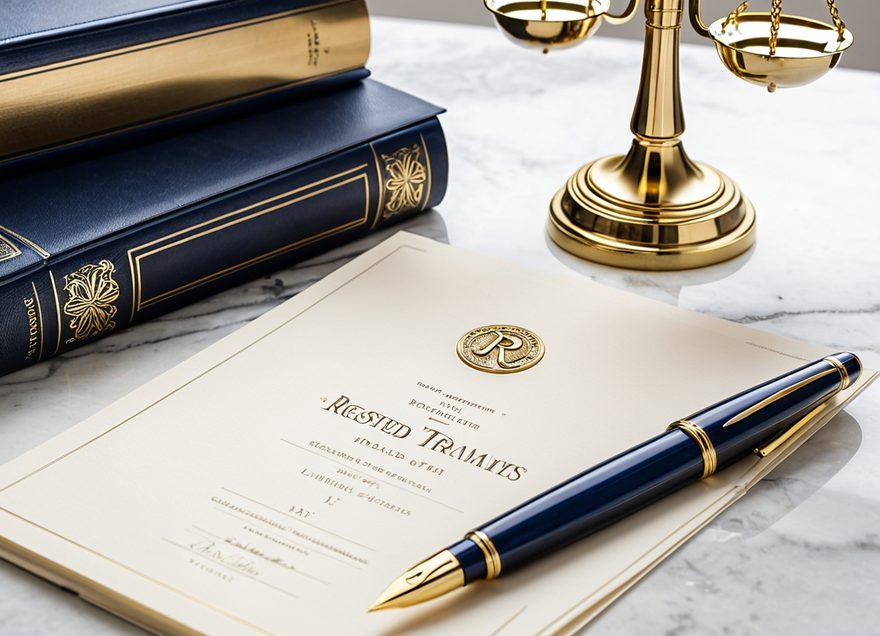
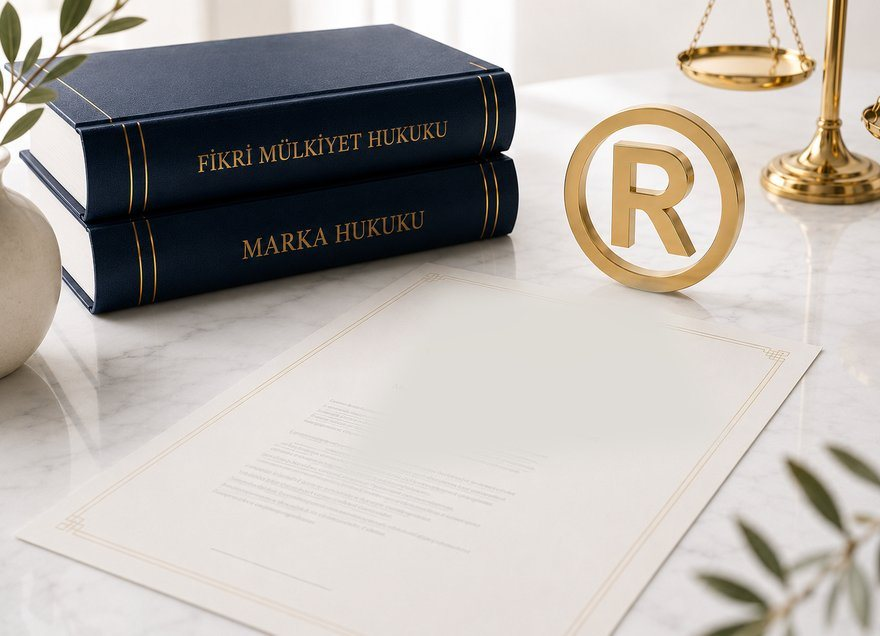
Eylul 2026: 8 ic sayfaya hero fotograflari (Sinem'in yazisiz bannerlari, srcset+preload), 3 alan karti gorseli (aile, yabancilar, fikri-sinai logosuz), makaleler/iletisim metinleri TR+EN, sitemap lastmod
Ayrintilar: DEGISIKLIK-RAPORU-01-EYL-2026.md - Geri donus: GERI-DONUS-PLANI.md

diff --git a/index.html b/index.html
@@ -297,7 +297,7 @@
       <div class="cards-grid">
         <!-- Fikri ve Sınai Haklar — ÖNE ÇIKAN -->
         <article class="card reveal">
-          <div class="card-media"><img src="assets/alanlar/alan-fikri-sinai.jpg" width="880" height="636" loading="lazy" decoding="async" alt="" data-alt-tr="Tescil belgeleri, mühür ve adalet terazisi — fikri ve sınai haklar" data-alt-en="Certificates, seal and scales of justice — intellectual property" /></div>
+          <div class="card-media"><img src="assets/alanlar/alan-fikri-sinai.jpg" width="880" height="636" loading="lazy" decoding="async" alt="" data-alt-tr="Fikri mülkiyet ve marka hukuku kitapları, tescilli marka sembolü ve adalet terazisi — fikri ve sınai haklar" data-alt-en="Intellectual property and trademark law books, registered trademark symbol and scales of justice — intellectual property" /></div>
           <span class="card-badge" data-lang-tr>Öne Çıkan</span><span class="card-badge" data-lang-en>Featured</span>
           <div class="card-icon"><svg viewBox="0 0 24 24" fill="none" stroke="currentColor" stroke-width="1.6"><path d="M12 2l3 6 6 .9-4.5 4.2 1 6-5.5-3-5.5 3 1-6L3 8.9 9 8z" stroke-linejoin="round"/></svg></div>
           <h3 data-lang-tr>Fikri ve Sınai Haklar</h3><h3 data-lang-en>Intellectual Property</h3>
@@ -307,7 +307,7 @@
         </article>
         <!-- Yabancılar — ÖNE ÇIKAN -->
         <article class="card reveal reveal-delay-1">
-          <div class="card-media"><img src="assets/alanlar/alan-yabancilar.jpg" width="880" height="636" loading="lazy" decoding="async" alt="" data-alt-tr="Pasaport ve küre — yabancılar hukuku" data-alt-en="Passport and globe — immigration law" /></div>
+          <div class="card-media"><img src="assets/alanlar/alan-yabancilar.jpg" width="880" height="636" loading="lazy" decoding="async" alt="" data-alt-tr="Türk pasaportu, ikamet izni başvuru formu ve dünya haritası — yabancılar hukuku" data-alt-en="Turkish passport, residence permit application form and world map — immigration law" /></div>
           <span class="card-badge" data-lang-tr>Öne Çıkan</span><span class="card-badge" data-lang-en>Featured</span>
           <div class="card-icon"><svg viewBox="0 0 24 24" fill="none" stroke="currentColor" stroke-width="1.6"><circle cx="12" cy="12" r="9"/><path d="M3 12h18M12 3a14 14 0 010 18M12 3a14 14 0 000 18" stroke-linecap="round" stroke-linejoin="round"/></svg></div>
           <h3 data-lang-tr>Yabancılar Hukuku</h3><h3 data-lang-en>Immigration Law</h3>
@@ -317,7 +317,7 @@
         </article>
         <!-- Aile -->
         <article class="card reveal reveal-delay-2">
-          <div class="card-media"><img src="assets/alanlar/alan-aile.jpg" width="880" height="636" loading="lazy" decoding="async" alt="" data-alt-tr="Aile figürleri ve adalet terazisi — aile hukuku" data-alt-en="Family figurines and scales of justice — family law" /></div>
+          <div class="card-media"><img src="assets/alanlar/alan-aile.jpg" width="880" height="636" loading="lazy" decoding="async" alt="" data-alt-tr="El ele tutuşan aile figürleri ve adalet terazisi — aile hukuku" data-alt-en="Family figures holding hands and scales of justice — family law" /></div>
           <div class="card-icon"><svg viewBox="0 0 24 24" fill="none" stroke="currentColor" stroke-width="1.6"><path d="M12 21s-6-4.5-9-8a4.5 4.5 0 019-1 4.5 4.5 0 019 1c-3 3.5-9 8-9 8z" stroke-linejoin="round"/></svg></div>
           <h3 data-lang-tr>Aile Hukuku</h3><h3 data-lang-en>Family Law</h3>
           <p data-lang-tr>Boşanma, velayet, nafaka ve mal paylaşımı başta olmak üzere aile içi uyuşmazlıklarda hassas ve etkili temsil.</p>

diff --git a/iletisim.html b/iletisim.html
@@ -19,6 +19,7 @@
   <meta name="twitter:image" content="https://nkeremsenturk.github.io/senturk-hukuk/assets/hero-1.jpg" />
   <script>try{var t=localStorage.getItem('ssh-theme')||((window.matchMedia&&matchMedia('(prefers-color-scheme:dark)').matches)?'dark':'light');document.documentElement.setAttribute('data-theme',t);}catch(e){}</script>
   <link rel="stylesheet" href="css/style.css" />
+  <link rel="preload" as="image" href="assets/hero/hero-iletisim-1600.jpg" imagesrcset="assets/hero/hero-iletisim-960.jpg 960w, assets/hero/hero-iletisim-1600.jpg 1600w" imagesizes="100vw" fetchpriority="high" />
   <link rel="icon" href="assets/logo/e5-icon-dark.svg" />
 </head>
 <body>
@@ -56,8 +57,8 @@
     </div>
   </header>
 
-  <section class="page-hero" id="main-content" tabindex="-1">
-    <div class="hero-bg"></div>
+  <section class="page-hero page-hero--photo" id="main-content" tabindex="-1" style="--hero-pos: 50% 50%">
+    <div class="hero-bg"><img class="hero-photo" src="assets/hero/hero-iletisim-1600.jpg" srcset="assets/hero/hero-iletisim-960.jpg 960w, assets/hero/hero-iletisim-1600.jpg 1600w" sizes="100vw" width="1600" height="759" alt="" fetchpriority="high" decoding="async" /></div>
     <div class="container">
       <div class="breadcrumb">
         <a href="index.html"><span data-lang-tr>Ana Sayfa</span><span data-lang-en>Home</span></a>
@@ -67,8 +68,8 @@
       <span class="eyebrow center" style="margin-top:1rem;justify-content:center" data-lang-tr>Bize Ulaşın</span>
       <span class="eyebrow center" style="margin-top:1rem;justify-content:center" data-lang-en>Reach Us</span>
       <h1 data-lang-tr>İletişim</h1><h1 data-lang-en>Contact</h1>
-      <p class="lead" data-lang-tr>Randevu, online danışmanlık veya marka başvurusu için bize ulaşın. Aşağıdaki formu doldurabilir; telefon, WhatsApp ya da e-posta ile de yazabilirsiniz.</p>
-      <p class="lead" data-lang-en>Get in touch for an appointment, online consultation or trademark application. Fill in the form below, or reach us by phone, WhatsApp or email.</p>
+      <p class="lead" data-lang-tr>Randevu talebi, online hukuki danışmanlık veya marka başvurusu süreçleri için bizimle iletişime geçebilirsiniz. Aşağıdaki iletişim formunu doldurabilir; telefon, WhatsApp ve e-posta ile bize ulaşabilirsiniz.</p>
+      <p class="lead" data-lang-en>You can contact us for appointment requests, online legal consultation or trademark application processes. Fill in the contact form below, or reach us by phone, WhatsApp or email.</p>
     </div>
   </section>
 

diff --git a/makaleler.html b/makaleler.html
@@ -19,6 +19,7 @@
   <meta name="twitter:image" content="https://nkeremsenturk.github.io/senturk-hukuk/assets/hero-1.jpg" />
   <script>try{var t=localStorage.getItem('ssh-theme')||((window.matchMedia&&matchMedia('(prefers-color-scheme:dark)').matches)?'dark':'light');document.documentElement.setAttribute('data-theme',t);}catch(e){}</script>
   <link rel="stylesheet" href="css/style.css" />
+  <link rel="preload" as="image" href="assets/hero/hero-makaleler-1600.jpg" imagesrcset="assets/hero/hero-makaleler-960.jpg 960w, assets/hero/hero-makaleler-1600.jpg 1600w" imagesizes="100vw" fetchpriority="high" />
   <link rel="icon" href="assets/logo/e5-icon-dark.svg" />
 </head>
 <body>
@@ -56,8 +57,8 @@
     </div>
   </header>
 
-  <section class="page-hero" id="main-content" tabindex="-1">
-    <div class="hero-bg"></div>
+  <section class="page-hero page-hero--photo" id="main-content" tabindex="-1" style="--hero-pos: 50% 55%">
+    <div class="hero-bg"><img class="hero-photo" src="assets/hero/hero-makaleler-1600.jpg" srcset="assets/hero/hero-makaleler-960.jpg 960w, assets/hero/hero-makaleler-1600.jpg 1600w" sizes="100vw" width="1600" height="686" alt="" fetchpriority="high" decoding="async" /></div>
     <div class="container">
       <div class="breadcrumb">
         <a href="index.html"><span data-lang-tr>Ana Sayfa</span><span data-lang-en>Home</span></a>
@@ -66,9 +67,9 @@
       </div>
       <span class="eyebrow center" style="margin-top:1rem;justify-content:center" data-lang-tr>Bilgi Köşesi</span>
       <span class="eyebrow center" style="margin-top:1rem;justify-content:center" data-lang-en>Insights</span>
-      <h1 data-lang-tr>Makaleler &amp; Bilgilendirme</h1><h1 data-lang-en>Articles &amp; Insights</h1>
-      <p class="lead" data-lang-tr>Marka ve fikri mülkiyet başta olmak üzere hukuki süreçleri daha anlaşılır kılmak için hazırladığımız yazılar.</p>
-      <p class="lead" data-lang-en>Explainer articles — led by trademark and intellectual property — to make legal processes clearer.</p>
+      <h1 data-lang-tr>Makaleler</h1><h1 data-lang-en>Articles</h1>
+      <p class="lead" data-lang-tr>Marka ve fikri mülkiyet başta olmak üzere güncel hukuki gelişmeler, uygulamaya yönelik değerlendirmeler ve bilgilendirici içerikleri sizlerle paylaşıyoruz.</p>
+      <p class="lead" data-lang-en>Led by trademark and intellectual property law, we share current legal developments, practice-oriented assessments and informative content.</p>
     </div>
   </section>
 

diff --git a/css/style.css b/css/style.css
@@ -1003,6 +1003,34 @@ p:last-child { margin-bottom: 0; }
 .page-hero .eyebrow::before, .page-hero .eyebrow.center::after { background: var(--accent-300); }
 .page-hero .lead { color: rgba(255,255,255,0.8); max-width: 680px; margin: 1.2rem auto 0; }
 
+/* ---------- 16b. Fotoğraflı sayfa başlığı (Eylül 2026 — Sinem'in banner görselleri) ----------
+   Yapı: .page-hero.page-hero--photo > .hero-bg > img.hero-photo
+   Görsel arka planda (object-fit: cover), üstüne lacivert gradyan overlay (::after) biner;
+   başlık/açıklama HTML metni olarak kalır (iki dil, SEO, erişilebilirlik). Sayfa bazında
+   kadraj: style="--hero-pos: 50% 40%". Overlay yoğunluğu Sinem'in "%75-80 lacivert" isteğinin
+   CSS karşılığıdır; görseller zaten lacivert tonlu geldiği için toplam etki o seviyeye çıkar. */
+.page-hero--photo .hero-bg { background: var(--navy-900); }
+.page-hero--photo .hero-photo {
+  position: absolute; inset: 0; width: 100%; height: 100%;
+  object-fit: cover; object-position: var(--hero-pos, 50% 50%);
+  display: block;
+  animation: heroPhotoIn 1.4s var(--ease-soft) both;
+}
+.page-hero--photo .hero-bg::after {
+  background:
+    radial-gradient(ellipse 58% 68% at 50% 56%, rgba(8,20,38,0.34), transparent 100%),
+    linear-gradient(180deg, rgba(8,20,38,0.70) 0%, rgba(11,31,58,0.52) 42%, rgba(11,31,58,0.56) 72%, rgba(8,20,38,0.78) 100%);
+  opacity: 1;
+}
+@keyframes heroPhotoIn {
+  from { opacity: 0; transform: scale(1.04); }
+  to   { opacity: 1; transform: none; }
+}
+@media (prefers-reduced-motion: reduce) {
+  .page-hero--photo .hero-photo { animation: none; }
+}
+
+
 /* ---------- 17. Profil (Hakkında) ---------- */
 .profile-grid { display: grid; grid-template-columns: 0.85fr 1.15fr; gap: clamp(2rem, 6vw, 5rem); align-items: start; }
 .credential-list { display: grid; gap: 1rem; margin-top: 1.5rem; }

diff --git a/marka-tescili.html b/marka-tescili.html
@@ -20,6 +20,7 @@
   <meta name="keywords" content="marka tescili, marka tescili nasıl yapılır, marka vekili, tasarım tescili, coğrafi işaret tescili, İstanbul marka tescili, Balıkesir marka tescili, uluslararası marka başvurusu" />
   <script>try{var t=localStorage.getItem('ssh-theme')||((window.matchMedia&&matchMedia('(prefers-color-scheme:dark)').matches)?'dark':'light');document.documentElement.setAttribute('data-theme',t);}catch(e){}</script>
   <link rel="stylesheet" href="css/style.css" />
+  <link rel="preload" as="image" href="assets/hero/hero-marka-tescili-1600.jpg" imagesrcset="assets/hero/hero-marka-tescili-960.jpg 960w, assets/hero/hero-marka-tescili-1600.jpg 1600w" imagesizes="100vw" fetchpriority="high" />
   <link rel="icon" href="assets/logo/e5-icon-dark.svg" />
 </head>
 <body>
@@ -57,8 +58,8 @@
     </div>
   </header>
 
-  <section class="page-hero" id="main-content" tabindex="-1">
-    <div class="hero-bg"></div>
+  <section class="page-hero page-hero--photo" id="main-content" tabindex="-1" style="--hero-pos: 50% 50%">
+    <div class="hero-bg"><img class="hero-photo" src="assets/hero/hero-marka-tescili-1600.jpg" srcset="assets/hero/hero-marka-tescili-960.jpg 960w, assets/hero/hero-marka-tescili-1600.jpg 1600w" sizes="100vw" width="1600" height="900" alt="" fetchpriority="high" decoding="async" /></div>
     <div class="container">
       <div class="breadcrumb">
         <a href="index.html"><span data-lang-tr>Ana Sayfa</span><span data-lang-en>Home</span></a>

diff --git a/calisma-alanlari.html b/calisma-alanlari.html
@@ -19,6 +19,7 @@
   <meta name="twitter:image" content="https://nkeremsenturk.github.io/senturk-hukuk/assets/hero-1.jpg" />
   <script>try{var t=localStorage.getItem('ssh-theme')||((window.matchMedia&&matchMedia('(prefers-color-scheme:dark)').matches)?'dark':'light');document.documentElement.setAttribute('data-theme',t);}catch(e){}</script>
   <link rel="stylesheet" href="css/style.css" />
+  <link rel="preload" as="image" href="assets/hero/hero-calisma-alanlari-1600.jpg" imagesrcset="assets/hero/hero-calisma-alanlari-960.jpg 960w, assets/hero/hero-calisma-alanlari-1600.jpg 1600w" imagesizes="100vw" fetchpriority="high" />
   <link rel="icon" href="assets/logo/e5-icon-dark.svg" />
 </head>
 <body>
@@ -56,8 +57,8 @@
     </div>
   </header>
 
-  <section class="page-hero" id="main-content" tabindex="-1">
-    <div class="hero-bg"></div>
+  <section class="page-hero page-hero--photo" id="main-content" tabindex="-1" style="--hero-pos: 50% 62%">
+    <div class="hero-bg"><img class="hero-photo" src="assets/hero/hero-calisma-alanlari-1600.jpg" srcset="assets/hero/hero-calisma-alanlari-960.jpg 960w, assets/hero/hero-calisma-alanlari-1600.jpg 1600w" sizes="100vw" width="1600" height="900" alt="" fetchpriority="high" decoding="async" /></div>
     <div class="container">
       <div class="breadcrumb">
         <a href="index.html"><span data-lang-tr>Ana Sayfa</span><span data-lang-en>Home</span></a>

diff --git a/hakkinda.html b/hakkinda.html
@@ -19,6 +19,7 @@
   <meta name="twitter:image" content="https://nkeremsenturk.github.io/senturk-hukuk/assets/hero-1.jpg" />
   <script>try{var t=localStorage.getItem('ssh-theme')||((window.matchMedia&&matchMedia('(prefers-color-scheme:dark)').matches)?'dark':'light');document.documentElement.setAttribute('data-theme',t);}catch(e){}</script>
   <link rel="stylesheet" href="css/style.css" />
+  <link rel="preload" as="image" href="assets/hero/hero-hakkimizda-1600.jpg" imagesrcset="assets/hero/hero-hakkimizda-960.jpg 960w, assets/hero/hero-hakkimizda-1600.jpg 1600w" imagesizes="100vw" fetchpriority="high" />
   <link rel="icon" href="assets/logo/e5-icon-dark.svg" />
 </head>
 <body>
@@ -57,8 +58,8 @@
   </header>
 
   <!-- PAGE HERO -->
-  <section class="page-hero" id="main-content" tabindex="-1">
-    <div class="hero-bg"></div>
+  <section class="page-hero page-hero--photo" id="main-content" tabindex="-1" style="--hero-pos: 64% 42%">
+    <div class="hero-bg"><img class="hero-photo" src="assets/hero/hero-hakkimizda-1600.jpg" srcset="assets/hero/hero-hakkimizda-960.jpg 960w, assets/hero/hero-hakkimizda-1600.jpg 1600w" sizes="100vw" width="1600" height="900" alt="" fetchpriority="high" decoding="async" /></div>
     <div class="container">
       <div class="breadcrumb">
         <a href="index.html"><span data-lang-tr>Ana Sayfa</span><span data-lang-en>Home</span></a>

diff --git a/makale-cografi-isaret-ve-tasarim-tescili.html b/makale-cografi-isaret-ve-tasarim-tescili.html
@@ -32,6 +32,7 @@
   </script>
   <script>try{var t=localStorage.getItem('ssh-theme')||((window.matchMedia&&matchMedia('(prefers-color-scheme:dark)').matches)?'dark':'light');document.documentElement.setAttribute('data-theme',t);}catch(e){}</script>
   <link rel="stylesheet" href="css/style.css" />
+  <link rel="preload" as="image" href="assets/hero/hero-makaleler-1600.jpg" imagesrcset="assets/hero/hero-makaleler-960.jpg 960w, assets/hero/hero-makaleler-1600.jpg 1600w" imagesizes="100vw" fetchpriority="high" />
   <link rel="icon" href="assets/logo/e5-icon-dark.svg" />
 </head>
 <body>
@@ -69,8 +70,8 @@
     </div>
   </header>
 
-  <section class="page-hero" id="main-content" tabindex="-1">
-    <div class="hero-bg"></div>
+  <section class="page-hero page-hero--photo" id="main-content" tabindex="-1" style="--hero-pos: 50% 55%">
+    <div class="hero-bg"><img class="hero-photo" src="assets/hero/hero-makaleler-1600.jpg" srcset="assets/hero/hero-makaleler-960.jpg 960w, assets/hero/hero-makaleler-1600.jpg 1600w" sizes="100vw" width="1600" height="686" alt="" fetchpriority="high" decoding="async" /></div>
     <div class="container">
       <div class="breadcrumb">
         <a href="index.html"><span data-lang-tr>Ana Sayfa</span><span data-lang-en>Home</span></a>

diff --git a/makale-marka-tescili-neden-onemlidir.html b/makale-marka-tescili-neden-onemlidir.html
@@ -32,6 +32,7 @@
   </script>
   <script>try{var t=localStorage.getItem('ssh-theme')||((window.matchMedia&&matchMedia('(prefers-color-scheme:dark)').matches)?'dark':'light');document.documentElement.setAttribute('data-theme',t);}catch(e){}</script>
   <link rel="stylesheet" href="css/style.css" />
+  <link rel="preload" as="image" href="assets/hero/hero-makaleler-1600.jpg" imagesrcset="assets/hero/hero-makaleler-960.jpg 960w, assets/hero/hero-makaleler-1600.jpg 1600w" imagesizes="100vw" fetchpriority="high" />
   <link rel="icon" href="assets/logo/e5-icon-dark.svg" />
 </head>
 <body>
@@ -69,8 +70,8 @@
     </div>
   </header>
 
-  <section class="page-hero" id="main-content" tabindex="-1">
-    <div class="hero-bg"></div>
+  <section class="page-hero page-hero--photo" id="main-content" tabindex="-1" style="--hero-pos: 50% 55%">
+    <div class="hero-bg"><img class="hero-photo" src="assets/hero/hero-makaleler-1600.jpg" srcset="assets/hero/hero-makaleler-960.jpg 960w, assets/hero/hero-makaleler-1600.jpg 1600w" sizes="100vw" width="1600" height="686" alt="" fetchpriority="high" decoding="async" /></div>
     <div class="container">
       <div class="breadcrumb">
         <a href="index.html"><span data-lang-tr>Ana Sayfa</span><span data-lang-en>Home</span></a>

diff --git a/makale-neden-marka-vekili-ile-calismalisiniz.html b/makale-neden-marka-vekili-ile-calismalisiniz.html
@@ -32,6 +32,7 @@
   </script>
   <script>try{var t=localStorage.getItem('ssh-theme')||((window.matchMedia&&matchMedia('(prefers-color-scheme:dark)').matches)?'dark':'light');document.documentElement.setAttribute('data-theme',t);}catch(e){}</script>
   <link rel="stylesheet" href="css/style.css" />
+  <link rel="preload" as="image" href="assets/hero/hero-makaleler-1600.jpg" imagesrcset="assets/hero/hero-makaleler-960.jpg 960w, assets/hero/hero-makaleler-1600.jpg 1600w" imagesizes="100vw" fetchpriority="high" />
   <link rel="icon" href="assets/logo/e5-icon-dark.svg" />
 </head>
 <body>
@@ -69,8 +70,8 @@
     </div>
   </header>
 
-  <section class="page-hero" id="main-content" tabindex="-1">
-    <div class="hero-bg"></div>
+  <section class="page-hero page-hero--photo" id="main-content" tabindex="-1" style="--hero-pos: 50% 55%">
+    <div class="hero-bg"><img class="hero-photo" src="assets/hero/hero-makaleler-1600.jpg" srcset="assets/hero/hero-makaleler-960.jpg 960w, assets/hero/hero-makaleler-1600.jpg 1600w" sizes="100vw" width="1600" height="686" alt="" fetchpriority="high" decoding="async" /></div>
     <div class="container">
       <div class="breadcrumb">
         <a href="index.html"><span data-lang-tr>Ana Sayfa</span><span data-lang-en>Home</span></a>

diff --git a/CLAUDE.md b/CLAUDE.md
@@ -24,7 +24,7 @@ iş, ceza, gayrimenkul, icra-iflas ve sözleşmeler hukuku alanlarında da hizme
 
 ```
 .
-├── index.html              # Ana sayfa (4 slaytlı hero slider, intro+Sinem imzası, hizmetler, marka şeridi, neden biz, makale önizleme, alıntı, inline iletişim formu) — istatistik YOK
+├── index.html              # Ana sayfa (4 slaytlı hero slider, intro+Sinem imzası, görselli 6 alan kartı, marka şeridi, neden biz, makale önizleme, alıntı, inline iletişim formu) — istatistik YOK
 ├── hakkinda.html           # Hakkında (Sinem profili, eğitim, değerler, kurucu ortaklar/ekip)
 ├── calisma-alanlari.html   # Çalışma alanları (8 alan akordeon + marka tescili vurgusu)
 ├── marka-tescili.html      # Marka/tasarım/coğrafi işaret: aşamalar, alt hizmetler, bilgi notları, başvuru formu
@@ -38,10 +38,13 @@ iş, ceza, gayrimenkul, icra-iflas ve sözleşmeler hukuku alanlarında da hizme
 │   └── style.css           # TÜM stiller + tasarım sistemi (tek dosya)
 ├── js/
 │   └── main.js             # TÜM etkileşimler (menü, dil, animasyon, form)
-├── assets/                 # Görseller buraya (portre, büro foto, logo)
+├── assets/                 # Görseller: team/ (portreler), alanlar/ (6 alan kartı JPG), about/ (slider), logo/, fonts/ + vCard & QR
+├── gorsel-uretim/          # AI görsel üretim scriptleri (.bat + py) — .gitignore'da, repoya GİRMEZ
 ├── .github/workflows/
 │   └── pages.yml           # GitHub Pages otomatik yayın
 ├── README.md               # GitHub vitrini + kurulum
+├── BAKIM_RAPORU.md         # 26 Haz 2026 çoklu-ajan bakım turu raporu (arşiv)
+├── SINEM-NOTLAR-ANALIZ-11-TEM-2026.md  # Sinem'in değişiklik dokümanının analizi (uygulandı, arşiv)
 └── CLAUDE.md               # (bu dosya)
 ```
 
@@ -341,7 +344,6 @@ Sinem'den gelen kararlar ve hatırlatmalar; her maddenin durumu işaretli.
 - Çalışma alanları listesinin gözden geçirilmesi (ekleme olacak mı?)
 
 **Kerem'den beklenenler (WhatsApp hatırlatma botu BU listeyi de okur — temiz tut!):**
-- Alan görselleri değişikliğini commit'leyip terminalden push etmek (yayına almak)
 - Web3Forms anahtarını alıp iletişim formuna bağlamak (mesajlar e-postaya düşecek)
 - Cloudflare Analytics kurulumu (gizli ziyaretçi sayacı)
 - KVKK Word dosyasını Sinem'e iletmek
@@ -385,7 +387,8 @@ Sinem'den gelen kararlar ve hatırlatmalar; her maddenin durumu işaretli.
     Telif hakları ve eser sahibinin korunması. (Not: bunlar Temmuz'da kaldırılan 3 örnek kartın
     konuları — geldiklerinde mevcut `makale-*.html` şablonuyla eklenir, kartlar geri gelir.)
 12. ✅ **Hukuk alanlarına görseller TAMAM (13 Tem 2026):** 6 görsel üretildi (A1111,
-    `gorsel-uretim/` scriptleri; yabancilar+gayrimenkul 2. turda düzeltilen prompt'larla).
+    `gorsel-uretim/` scriptleri; yabancilar+gayrimenkul 2. turda, ceza+is-sosyal 3. turda
+    konuya özel yenilendi: tokmak+flu mahkeme kürsüsü, lacivert baret — Kerem talebi).
     Optimize JPG'ler repoda: `assets/alanlar/alan-<slug>.jpg` (880x636, 58-84KB; ham PNG'ler
     .gitignore'da). **index.html 6 alan kartına `.card-media` ile entegre edildi**; CSS'te
     `.card-media` stilleri (hover zoom, `prefers-reduced-motion` saygısı, koyu temada
@@ -395,3 +398,22 @@ Sinem'den gelen kararlar ve hatırlatmalar; her maddenin durumu işaretli.
     kabul edildi; rahatsız ederse tek başına yeniden üretilebilir.
 13. ✅ **11 Tem 2026 sohbet kararları:** "Hakkımızda" nav 10 sayfada güncellendi; "sicilli" →
     "sicile kayıtlı" (index hero-trust, marka-tescili meta+gövde, hakkinda bio) her yerde düzeltildi.
+
+## 13. Eylül 2026 — Sinem'in banner/görsel/metin istekleri (UYGULANDI, yayın onayı bekliyor)
+
+Kaynak: `Sinem İstekler/` (e-posta ekleri; zip'ler + `_acilan/` + `_secenekler/` gitignore'da).
+Rapor: `DEGISIKLIK-RAPORU-01-EYL-2026.md` · Geri dönüş: `GERI-DONUS-PLANI.md` · Öncesi kopya: `_yedek/2026-09-01-oncesi/`.
+
+**Fotoğraflı sayfa başlığı sistemi (`.page-hero--photo`, CSS Bölüm 16b):**
+- Yapı: `<section class="page-hero page-hero--photo" style="--hero-pos: X% Y%">` → `<div class="hero-bg"><img class="hero-photo" src=".../hero-<ad>-1600.jpg" srcset="...-960.jpg 960w, ...-1600.jpg 1600w" sizes="100vw" width height alt="" fetchpriority="high" decoding="async"></div>`; `<head>`'de `<link rel="preload" as="image" imagesrcset imagesizes>`.
+- Görseller `assets/hero/hero-{hakkimizda,calisma-alanlari,marka-tescili,makaleler,iletisim}-{1600,960}.jpg` (Sinem'in YAZISIZ banner'larından, 60-140 KB). 8 sayfada kullanılıyor: 5 ana iç sayfa + 3 `makale-*.html` (Makaleler görseli). `kvkk.html` bilinçli olarak düz gradyan.
+- Metin HTML'de kalır (iki dil/SEO/erişilebilirlik); overlay `::after` lacivert gradyan. **YAZILI banner sürümleri asla kullanılmaz** (çevrilemez, h1 kaybolur, "vekilli.iiğiyle" render hatası, altın+serif palet sapması).
+- Yeni sayfaya fotoğraf eklemek = yukarıdaki 3 satır; kaldırmak = sınıfı ve img/preload satırlarını silmek.
+
+**Alan kartları (`assets/alanlar/`):** aile, yabancilar, fikri-sinai görselleri yenilendi (880×636, parlaklık/kontrast ton düzeltmeli). **KURAL: sitede kullanılan hiçbir görselde kurum/marka logosu, resmî belge görüntüsü veya belge numarası bulunmaz** — yapay üretim görsellerde bu tür öğeler çıkarılır (fikri-sinai görselinde uygulandı). Gerekçe ve kullanılmayan sürümler repo dışındaki iç raporda. Alt metinler (`data-alt-tr/en`) yenilendi.
+
+**Metin:** `makaleler.html` h1 "Makaleler"/"Articles" + yeni lead (TR Sinem'in, EN bizim); `iletisim.html` yeni lead (TR Sinem'in, EN bizim). Sinem'in onayı bekleniyor (`SINEM-SORULAR-01-EYL-2026.md`, 8 madde).
+
+**Yapılmayanlar (bilinçli):** İletişim'e "Bizimle İletişime Geçin" ara satırı; ana sayfa makaleler bölüm başlığı; akordeona görsel; KVKK'ya fotoğraf. Gerekçeler raporda.
+
+**Yayın akışı:** Kerem `git-etiketle-ve-commit.cmd` ile `v1.0-eylul-oncesi` etiketi + tek commit + isteğe bağlı push. Geri alma: `git revert HEAD`.

diff --git a/README.md b/README.md
@@ -5,17 +5,18 @@ Av. & Marka Vekili Sinem Şentürk ve kurucu ortağı Av. Yasin Emre Özbaş iç
 Saf HTML + CSS + JavaScript ile geliştirilmiştir — çerçeve yok, derleme yok,
 GitHub Pages'te ücretsiz yayınlanır. Fikri ve sınai haklar / marka tescili öne çıkar.
 
-> İçerik Sinem'in bilgi formuyla dolduruldu. Logo, portre ve sosyal medya bağlantıları
-> geldiğinde işlenecektir. Ayrıntılar için **[CLAUDE.md](CLAUDE.md)** dosyasına bakın.
+> İçerik Sinem'in bilgi formu ve değişiklik notlarıyla dolduruldu; logo, portreler ve
+> alan görselleri işlendi. Bekleyenler (sosyal medya, domain, kurumsal e-posta vb.) için
+> **[CLAUDE.md](CLAUDE.md)** dosyasına bakın.
 
 ---
 
 ## Özellikler
 
-- **7 sayfa:** Ana Sayfa · Hakkında · Çalışma Alanları · Marka Tescili · Makaleler · İletişim · KVKK
-- **İki dil:** Tek tıkla TR/EN geçişi (tercih hatırlanır)
-- **Modern & sade tasarım:** Lacivert + beyaz paleti, çelik mavisi vurgu, sans-serif tipografi
-- **Dinamik:** Saf-CSS scroll animasyonları, akordeon, yapışkan menü, WhatsApp butonu, mobil uyumlu
+- **10 sayfa:** Ana Sayfa · Hakkımızda · Çalışma Alanları · Marka Tescili · Makaleler (+3 makale sayfası) · İletişim · KVKK
+- **İki dil:** Tek tıkla TR/EN geçişi (tercih hatırlanır) · **Karanlık mod** (tercih hatırlanır)
+- **Modern & sade tasarım:** Lacivert + beyaz paleti, çelik mavisi vurgu, sans-serif tipografi, self-host fontlar
+- **Dinamik:** Saf-CSS scroll animasyonları, akordeon, yapışkan menü, WhatsApp butonu, çalışan iletişim formları (KVKK onaylı), vCard+QR, mobil uyumlu
 - **8 çalışma alanı + marka tescili:** Fikri/sınai haklar, yabancılar, aile, iş, ceza, gayrimenkul,
   icra-iflas, sözleşmeler; ayrı marka/tasarım/coğrafi işaret tescili sayfası ve başvuru formu
 - **SEO dostu:** İstanbul/Balıkesir vurgusu, LegalService JSON-LD, erişilebilir işaretleme
@@ -87,10 +88,10 @@ Detaylı kurallar ve "yapılacaklar" listesi: **[CLAUDE.md](CLAUDE.md)**
 
 ```
 index.html · hakkinda.html · calisma-alanlari.html · marka-tescili.html
-makaleler.html · iletisim.html · kvkk.html
+makaleler.html · makale-*.html (3) · iletisim.html · kvkk.html
 css/style.css        → tüm stiller (tasarım sistemi :root değişkenlerinde)
-js/main.js           → tüm etkileşimler
-assets/              → görseller (portre, logo)
+js/main.js           → tüm etkileşimler (dil, tema, form, slider, sihirbaz)
+assets/              → görseller (team/, alanlar/, about/, logo/, fonts/)
 .github/workflows/   → GitHub Pages otomatik yayın
 ```
 
